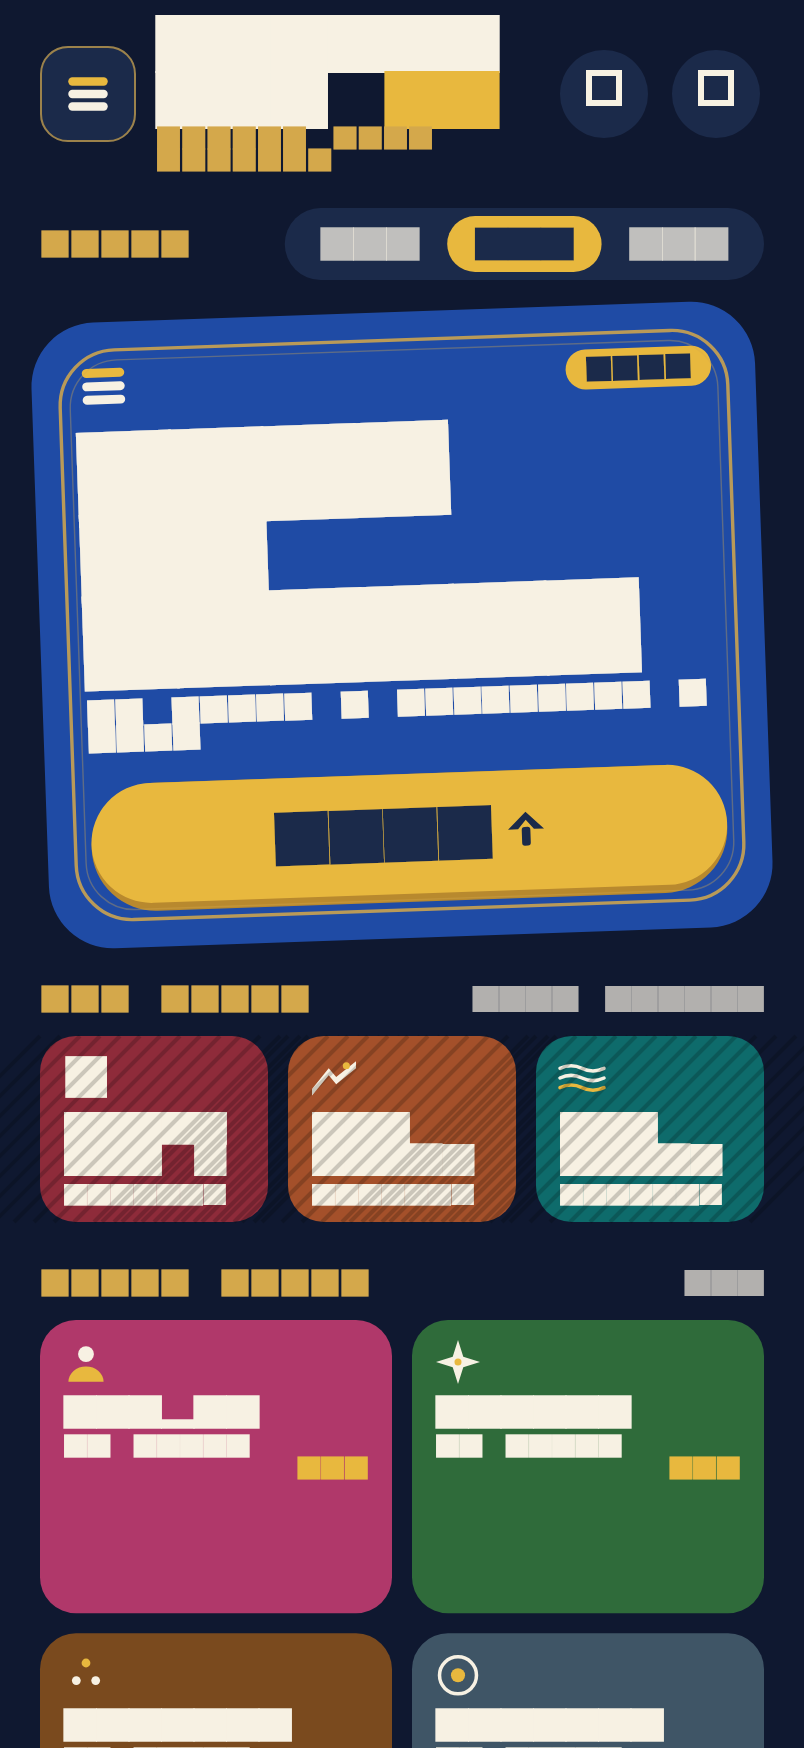
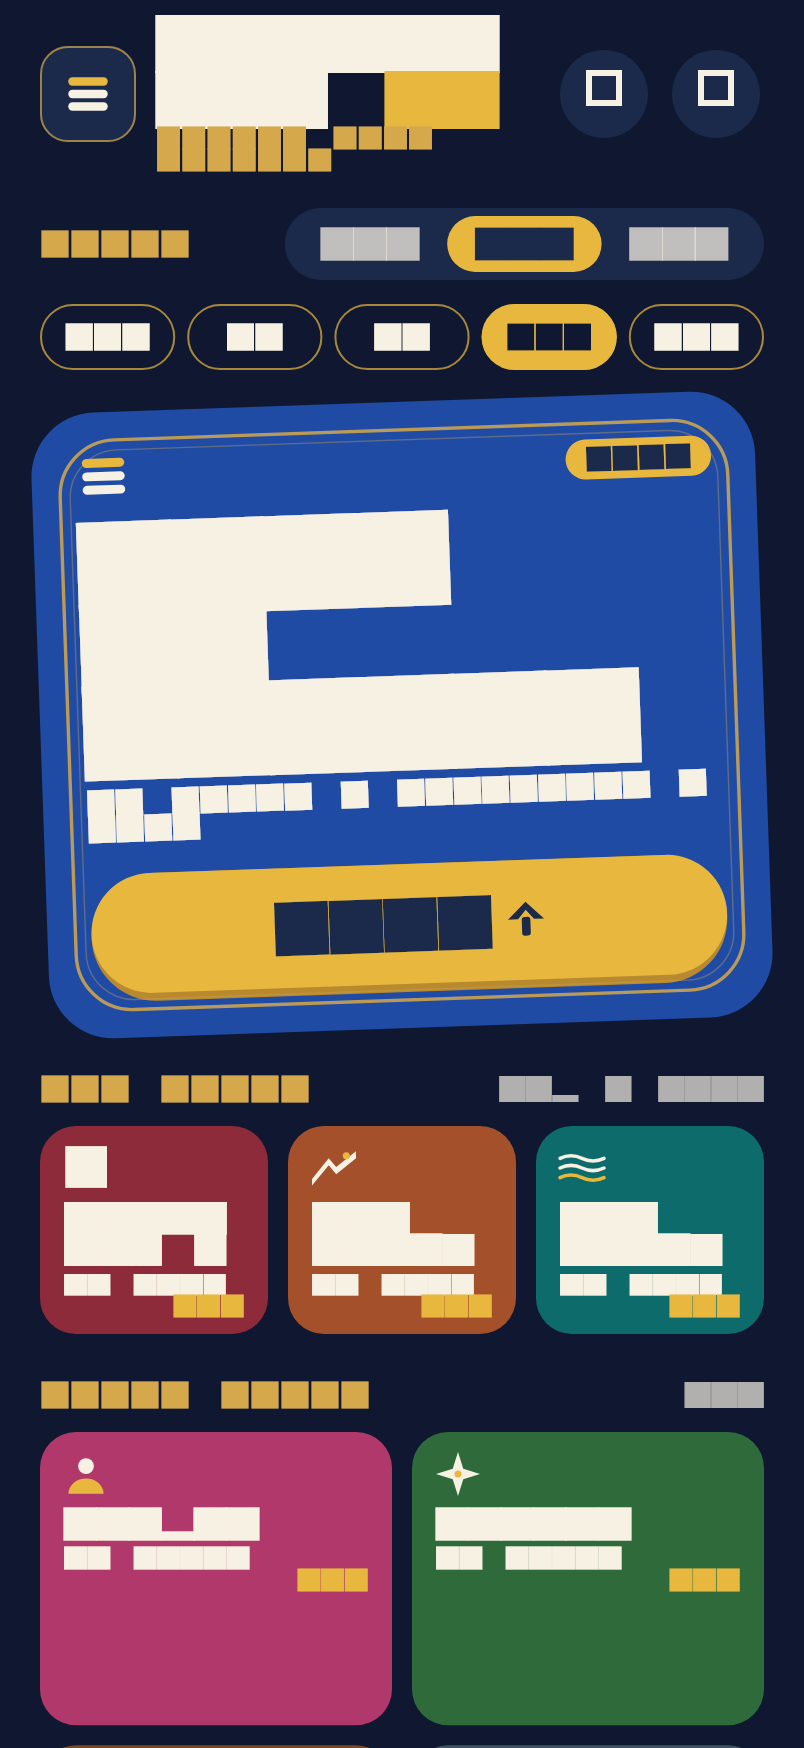
feat(lobby): book picker (All/OT/NT/BoM/D&C) drives the hero deck

diff --git a/lib/ui/lobby_screen.dart b/lib/ui/lobby_screen.dart
@@ -1,5 +1,3 @@
-import 'dart:math';
-
 import 'package:flutter/material.dart';
 
 import '../game/deck.dart';
@@ -30,41 +28,23 @@ class LobbyScreen extends StatefulWidget {
   State<LobbyScreen> createState() => _LobbyScreenState();
 }
 
-class _LobbyScreenState extends State<LobbyScreen> with SingleTickerProviderStateMixin {
-  late final AnimationController _shake = AnimationController(
-    vsync: this,
-    duration: const Duration(milliseconds: 240),
-  );
-  String? _shaking;
+class _LobbyScreenState extends State<LobbyScreen> {
+  String _book = 'bom';
 
-  Deck? get _hero => widget.decks.cast<Deck?>().firstWhere(
-    (deck) => deck!.playable,
-    orElse: () => null,
-  );
+  Deck? get _hero =>
+      bookDeck(widget.decks, _book) ??
+      widget.decks.cast<Deck?>().firstWhere(
+        (deck) => deck!.playable,
+        orElse: () => null,
+      );
+
+  void _pick(String id) => setState(() => _book = id);
 
   List<Deck> _group(List<String> ids) {
     return [
       for (final id in ids)
         ...widget.decks.where((deck) => deck.id == id),
     ];
-  }
-
-  void _closed(Deck deck) {
-    setState(() => _shaking = deck.id);
-    _shake.forward(from: 0).whenComplete(() {
-      if (mounted && _shaking == deck.id) {
-        setState(() => _shaking = null);
-      }
-    });
-    ScaffoldMessenger.of(context).showSnackBar(
-      const SnackBar(content: Text('Coming soon. Book of Mormon is live.')),
-    );
-  }
-
-  @override
-  void dispose() {
-    _shake.dispose();
-    super.dispose();
   }
 
   @override
@@ -128,6 +108,8 @@ class _LobbyScreenState extends State<LobbyScreen> with SingleTickerProviderStat
                   _LengthControl(length: widget.length, onChanged: widget.onLength),
                 ],
               ),
+              const SizedBox(height: 12),
+              _BookPicker(selected: _book, onPick: _pick),
               const SizedBox(height: 16),
               if (hero != null)
                 Transform.rotate(
@@ -142,7 +124,7 @@ class _LobbyScreenState extends State<LobbyScreen> with SingleTickerProviderStat
                 children: [
                   Text('THE CANON', style: condensed(13, color: gold, tracking: 2)),
                   const Spacer(),
-                  Text('more coming', style: body(13, color: cream.withValues(alpha: 0.7))),
+                  Text('tap a book', style: body(13, color: cream.withValues(alpha: 0.7))),
                 ],
               ),
               const SizedBox(height: 10),
@@ -151,9 +133,8 @@ class _LobbyScreenState extends State<LobbyScreen> with SingleTickerProviderStat
                   for (final deck in _group(canonDeckIds)) ...[
                     Expanded(
                       child: _DeckTile(
-                        deck: deck,
-                        shaking: _shaking == deck.id ? _shake : null,
-                        onTap: () => _closed(deck),
+                        deck: bookDeck(widget.decks, deck.id) ?? deck,
+                        onTap: () => _pick(deck.id),
                       ),
                     ),
                     if (deck != _group(canonDeckIds).last) const SizedBox(width: 10),
@@ -188,6 +169,44 @@ class _LobbyScreenState extends State<LobbyScreen> with SingleTickerProviderStat
           ),
         ),
       ),
+    );
+  }
+}
+
+class _BookPicker extends StatelessWidget {
+  const _BookPicker({required this.selected, required this.onPick});
+
+  final String selected;
+  final ValueChanged<String> onPick;
+
+  @override
+  Widget build(BuildContext context) {
+    return Row(
+      children: [
+        for (final id in bookPickerIds) ...[
+          Expanded(
+            child: GestureDetector(
+              key: Key('book-$id'),
+              onTap: () => onPick(id),
+              child: AnimatedContainer(
+                duration: const Duration(milliseconds: 160),
+                padding: const EdgeInsets.symmetric(vertical: 9),
+                decoration: BoxDecoration(
+                  color: id == selected ? goldLeaf : Colors.transparent,
+                  borderRadius: BorderRadius.circular(999),
+                  border: Border.all(color: goldLeaf.withValues(alpha: 0.7)),
+                ),
+                alignment: Alignment.center,
+                child: Text(
+                  bookPickerLabels[id]!,
+                  style: condensed(13, color: id == selected ? ink : cream, tracking: 1.2),
+                ),
+              ),
+            ),
+          ),
+          if (id != bookPickerIds.last) const SizedBox(width: 6),
+        ],
+      ],
     );
   }
 }
@@ -356,11 +375,10 @@ class _HeroCard extends StatelessWidget {
 }
 
 class _DeckTile extends StatelessWidget {
-  const _DeckTile({required this.deck, required this.onTap, this.shaking});
+  const _DeckTile({required this.deck, required this.onTap});
 
   final Deck deck;
   final VoidCallback onTap;
-  final Animation<double>? shaking;
 
   @override
   Widget build(BuildContext context) {
@@ -403,17 +421,6 @@ class _DeckTile extends StatelessWidget {
         child: closed ? Hatch(child: body) : body,
       ),
     );
-    final animation = shaking;
-    if (animation == null) {
-      return tile;
-    }
-    return AnimatedBuilder(
-      animation: animation,
-      builder: (context, child) {
-        final wave = sin(animation.value * pi * 6);
-        return Transform.translate(offset: Offset(wave * 6, 0), child: child);
-      },
-      child: tile,
-    );
+    return tile;
   }
 }

diff --git a/lib/game/deck.dart b/lib/game/deck.dart
@@ -162,3 +162,46 @@ const partyDeckIds = [
   'kids',
   'hard',
 ];
+
+/// Books the lobby picker offers, in canon order. `all` shuffles every book.
+const bookPickerIds = ['all', 'ot', 'nt', 'bom', 'dc'];
+
+const bookPickerLabels = {
+  'all': 'ALL',
+  'ot': 'OT',
+  'nt': 'NT',
+  'bom': 'BOM',
+  'dc': 'D&C',
+};
+
+/// The playable deck for a book picker choice. A single book is opened even
+/// when its deck JSON still says `soon`; `all` merges every book's cards.
+Deck? bookDeck(List<Deck> decks, String bookId) {
+  Deck open(Deck d, {String? id, String? name, String? pitch, List<GameCard>? cards}) => Deck(
+        id: id ?? d.id,
+        name: name ?? d.name,
+        pitch: pitch ?? d.pitch,
+        hero: d.hero,
+        emblem: d.emblem,
+        format: d.format,
+        status: DeckStatus.live,
+        cards: cards ?? d.cards,
+      );
+  final books = [
+    for (final id in const ['ot', 'nt', 'bom', 'dc']) ...decks.where((d) => d.id == id),
+  ];
+  if (bookId == 'all') {
+    if (books.isEmpty) return null;
+    final base = books.firstWhere((d) => d.id == 'bom', orElse: () => books.first);
+    return open(
+      base,
+      id: 'all',
+      name: 'All Books',
+      pitch: 'Every book, shuffled together.',
+      cards: [for (final d in books) ...d.cards],
+    );
+  }
+  final match = books.where((d) => d.id == bookId);
+  if (match.isEmpty || match.first.cards.isEmpty) return null;
+  return open(match.first);
+}

diff --git a/test/book_picker_test.dart b/test/book_picker_test.dart
@@ -1,0 +1,39 @@
+import 'package:flutter/material.dart';
+import 'package:flutter_test/flutter_test.dart';
+import 'package:scripture_up/game/deck.dart';
+
+import 'widget_test.dart' show loadDecks, pumpGame;
+
+void main() {
+  test('all merges every book and is playable', () {
+    final decks = loadDecks();
+    final all = bookDeck(decks, 'all')!;
+    final sum = ['ot', 'nt', 'bom', 'dc']
+        .map((id) => decks.firstWhere((d) => d.id == id).cardCount)
+        .reduce((a, b) => a + b);
+    expect(all.cardCount, sum);
+    expect(all.playable, isTrue);
+  });
+
+  test('each book opens on its own even if marked soon', () {
+    final decks = loadDecks();
+    for (final id in ['ot', 'nt', 'bom', 'dc']) {
+      final d = bookDeck(decks, id)!;
+      expect(d.id, id);
+      expect(d.playable, isTrue);
+    }
+    expect(bookDeck(decks, 'nope'), isNull);
+  });
+
+  testWidgets('picker swaps the hero deck', (tester) async {
+    final dir = await pumpGame(tester);
+    addTearDown(() => dir.deleteSync(recursive: true));
+    expect(find.text('Book of Mormon'), findsWidgets);
+    await tester.tap(find.byKey(const Key('book-dc')));
+    await tester.pumpAndSettle();
+    expect(find.text('Doctrine and Covenants'), findsWidgets);
+    await tester.tap(find.byKey(const Key('book-all')));
+    await tester.pumpAndSettle();
+    expect(find.text('All Books'), findsOneWidget);
+  });
+}

diff --git a/test/widget_test.dart b/test/widget_test.dart
@@ -97,12 +97,13 @@ Future<void> finishFromCard(WidgetTester tester) async {
 }
 
 void main() {
-  testWidgets('lobby is deck-first and keeps closed decks closed', (tester) async {
+  testWidgets('lobby is deck-first and the book picker opens the canon', (tester) async {
     await pumpGame(tester);
     expect(find.text('Book of Mormon'), findsOneWidget);
     expect(find.text('18 CARDS · REFERENCE + CLUE'), findsOneWidget);
     expect(find.text('NARROW ROAD STUDIOS'), findsOneWidget);
-    expect(find.text('COMING SOON'), findsNWidgets(3));
+    expect(find.text('COMING SOON'), findsNothing);
+    expect(find.byKey(const Key('book-all')), findsOneWidget);
     expect(
       find.text('Not affiliated with The Church of Jesus Christ of Latter-day Saints.'),
       findsNothing,
@@ -110,7 +111,7 @@ void main() {
 
     await tester.tap(find.byKey(const Key('deck-dc')));
     await tester.pump();
-    expect(find.text('Coming soon. Book of Mormon is live.'), findsOneWidget);
+    expect(find.text('Doctrine and Covenants'), findsWidgets);
     expect(find.byKey(const Key('play-hero')), findsOneWidget);
 
     final people = find.byKey(const Key('deck-people'));
